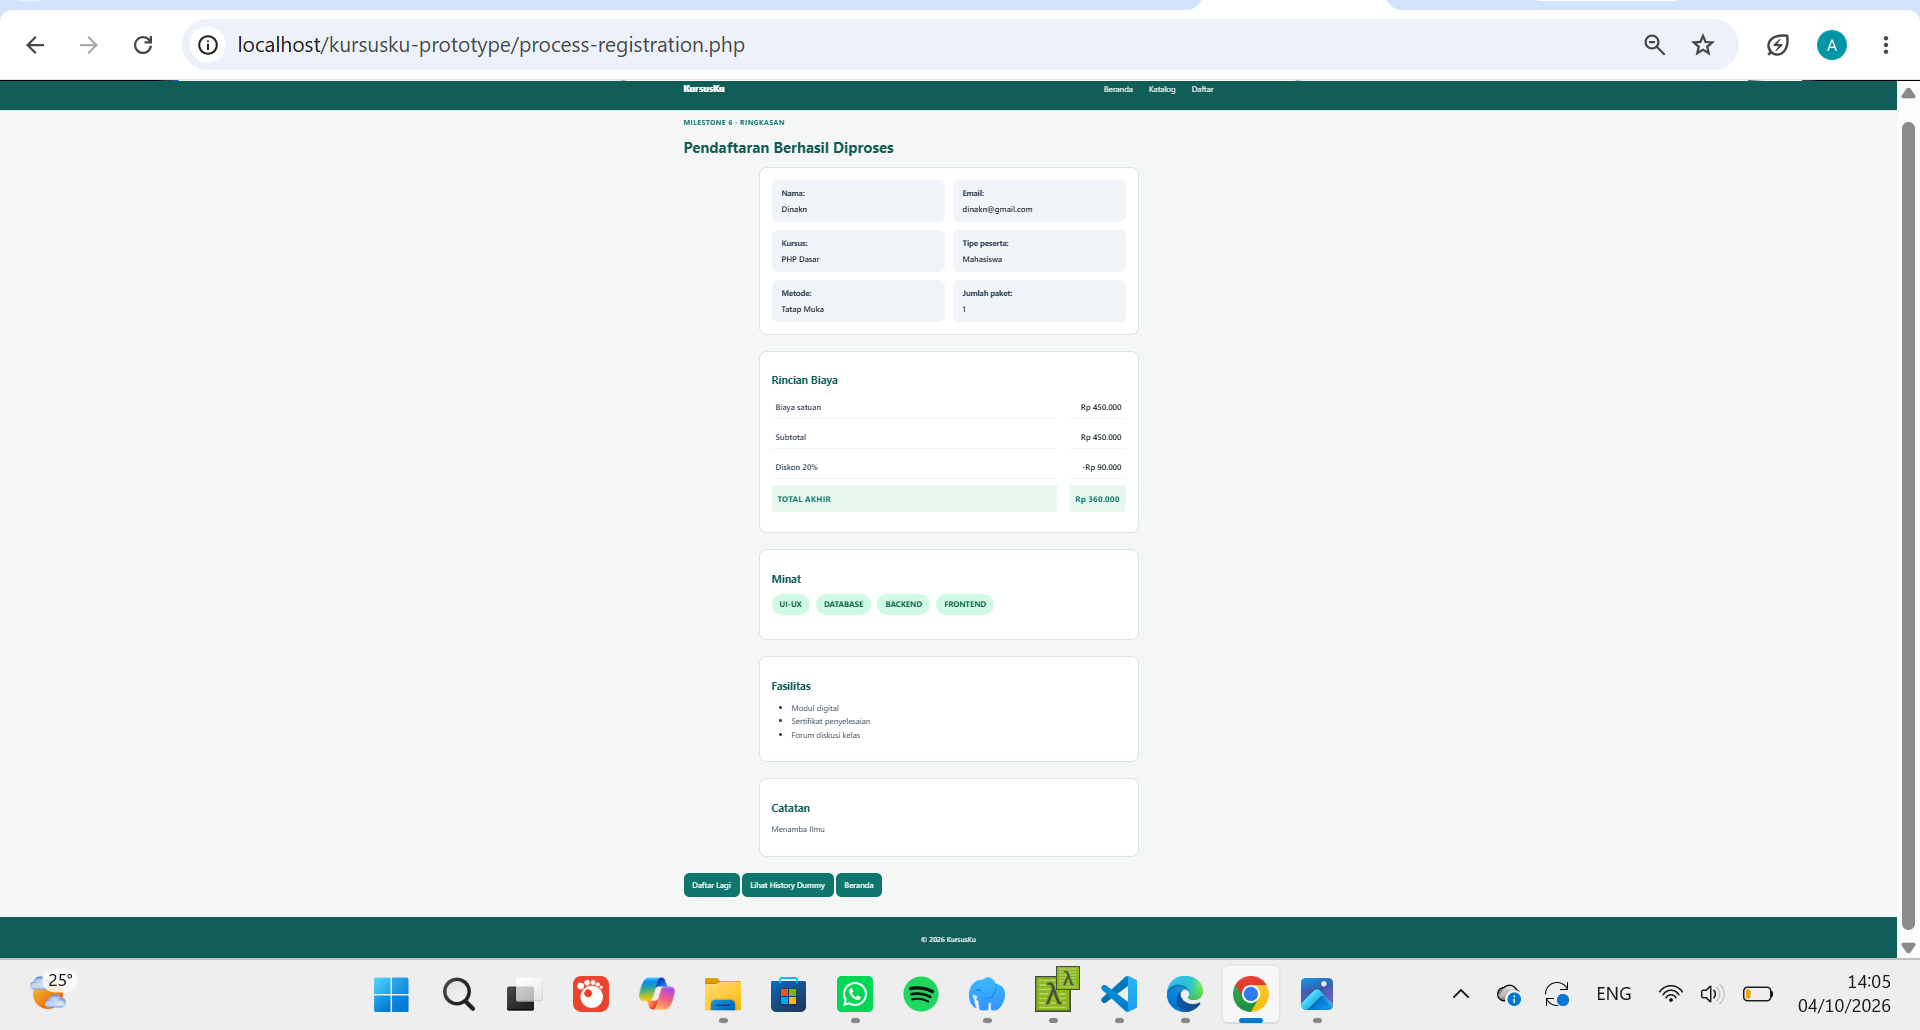
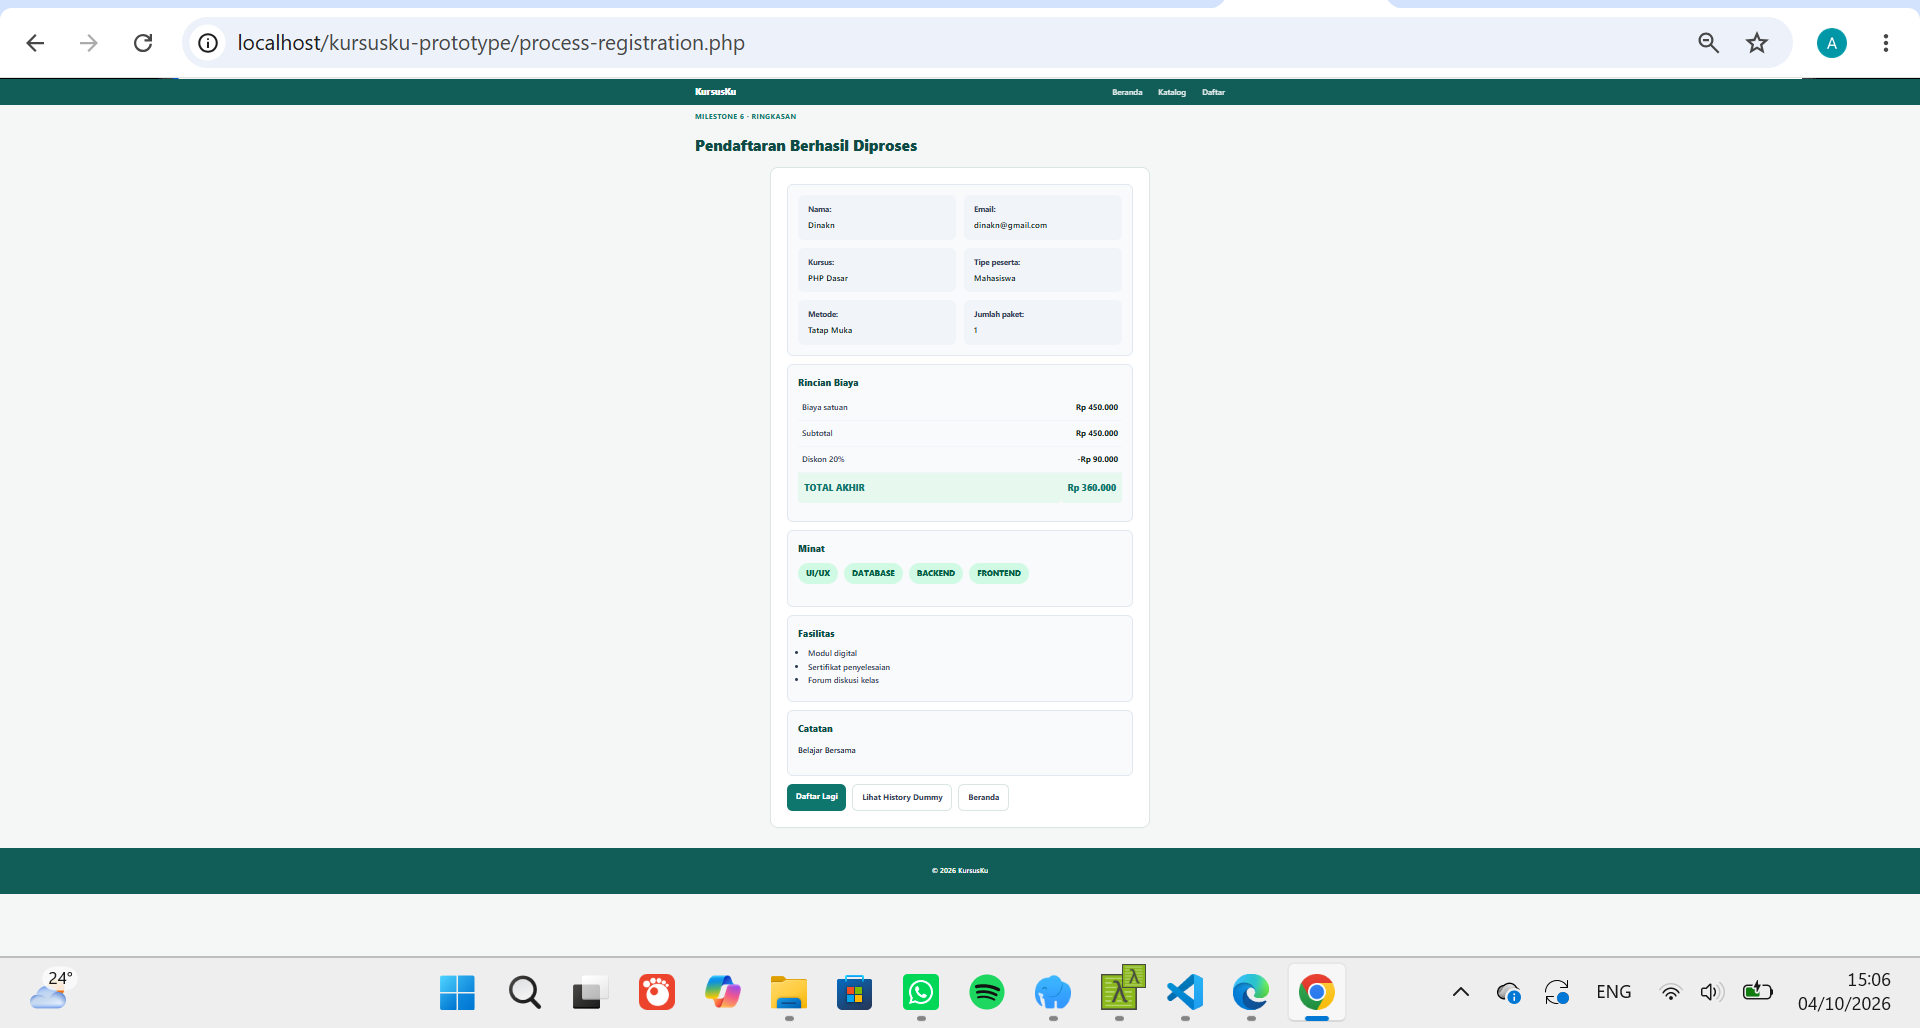
tugas

diff --git a/assets/css/style.css b/assets/css/style.css
@@ -431,3 +431,31 @@ h1 {
   .info-grid { grid-template-columns: 1fr; }
   .summary-list { grid-template-columns: 1fr auto; }
 }
+/* ===== Gabung jadi 1 kertas ===== */
+.result-wrapper {
+  background: #ffffff;
+  border: 1px solid #d9e6e2;
+  border-radius: 16px;
+  padding: 2rem;
+  max-width: 760px;
+  margin: 0 auto 1.5rem;
+}
+
+.result-wrapper .summary-card {
+  background: #f8fafc;
+  border: 1px solid #e2e8f0;
+  border-radius: 12px;
+  padding: 1.25rem;
+  margin: 0 0 1rem;
+  max-width: 100%;
+}
+
+.result-wrapper .summary-card:last-child {
+  margin-bottom: 0;
+}
+
+.result-wrapper .summary-card h2 {
+  font-size: 1.15rem;
+  margin: 0 0 .75rem;
+  color: #0f4c46;
+}

diff --git a/history.php b/history.php
@@ -1,9 +1,9 @@
 <?php
 $history = [
-    ['nama' => 'Dewi Lestari',    'kursus' => 'PHP Dasar',           'total' => 385000],
-    ['nama' => 'Eko Prasetyo',    'kursus' => 'Laravel Fundamental', 'total' => 625000],
-    ['nama' => 'Fitri Handayani', 'kursus' => 'Web Dasar',           'total' => 495000],
-    ['nama' => 'Gilang Ramadhan', 'kursus' => 'PHP Dasar',           'total' => 540000],
+    ['nama' => 'Dinakin',   'kursus' => 'PHP Dasar',           'total' => 360000],
+    ['nama' => 'Saraswati', 'kursus' => 'Web Dasar',           'total' => 595000],
+    ['nama' => 'Syerin',    'kursus' => 'Laravel Fundamental', 'total' => 575000],
+    ['nama' => 'Saputra',   'kursus' => 'Laravel Fundamental', 'total' => 1725000],
 ];
 
 function rupiah($n) {

diff --git a/process-registration.php b/process-registration.php
@@ -84,6 +84,7 @@ function rupiah($n) {
 <?php else: ?>
   <p class="eyebrow">Milestone 6 · Ringkasan</p>
   <h1>Pendaftaran Berhasil Diproses</h1>
+  <div class="result-wrapper">
 
   <section class="summary-card">
     <div class="info-grid">
@@ -159,6 +160,7 @@ function rupiah($n) {
     <a class="btn-link" href="index.php">Beranda</a>
   </div>
   <?php endif; ?>
+  </div>
 </main>
 <footer class="site-footer">
   <div class="container">
